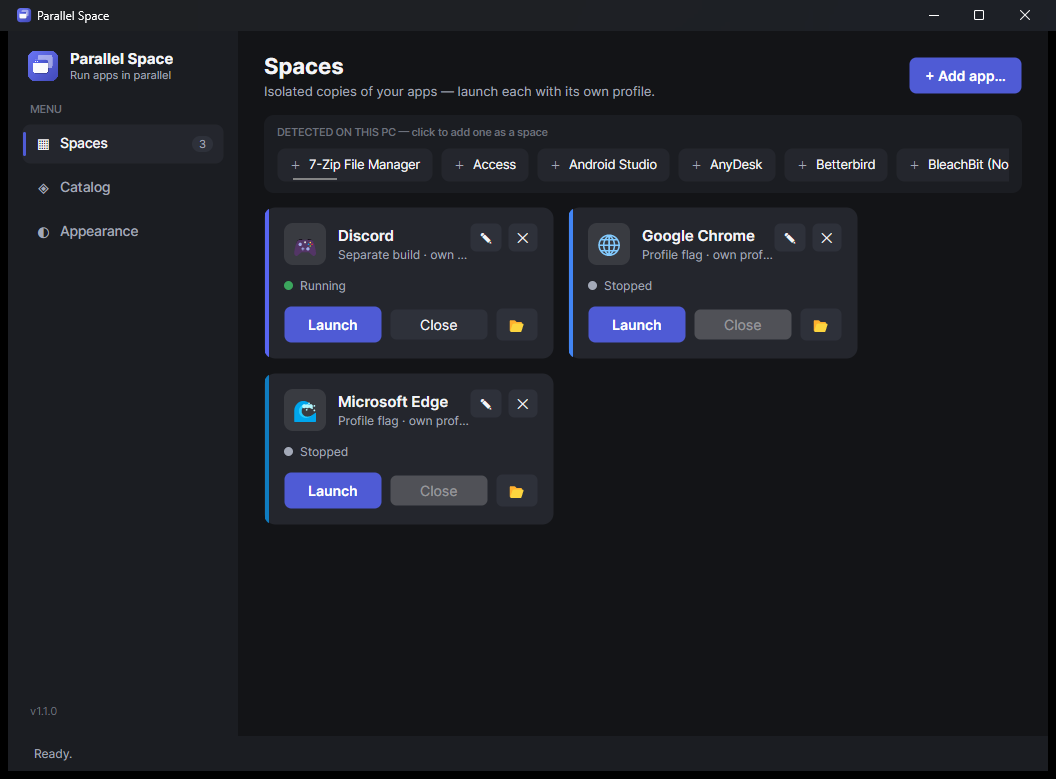
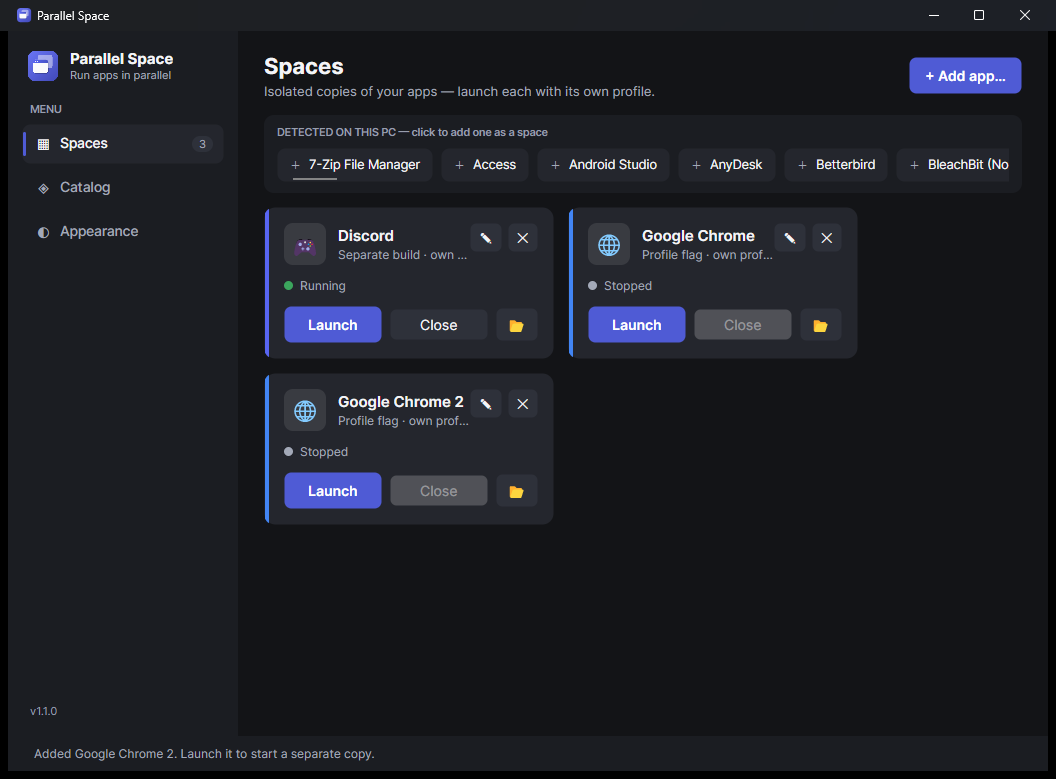
Fix multi-account workflow, Electron recipes and contrast
- A catalog app can be added once per account ('Add another'); repeat adds get
  their own private folder. Launching one space twice reused a single profile,
  so the documented two-account workflow could not work.
- Slack and Obsidian now use --user-data-dir, which Electron honours; the
  environment redirect they used cannot move an Electron userData path.
- Repointing a catalog space at another program drops the preset link instead
  of silently re-resolving the catalog exe.
- Nord secondary text was 3.99:1 on the pill surface; faint labels were below
  4.5:1 in all six themes. Both now pass, verified across every surface.
- Hand-added apps no longer guess --user-data-dir onto a plain exe.
- A failed spaces.json write is no longer masked by a success message.
- Document that closing a Discord space ends every copy of that channel.

diff --git a/src/ParallelSpace/ViewModels/EditSpaceViewModel.cs b/src/ParallelSpace/ViewModels/EditSpaceViewModel.cs
@@ -1,3 +1,4 @@
+using System;
 using System.Collections.Generic;
 using System.IO;
 using CommunityToolkit.Mvvm.ComponentModel;
@@ -11,6 +12,9 @@ public sealed partial class EditSpaceViewModel : ObservableObject
 {
     public Space Model { get; }
     public bool IsExisting { get; }
+
+    /// <summary>The path the editor opened with, to detect a deliberate repoint.</summary>
+    private readonly string _originalExecutablePath;
     public bool IsDiscord { get; }
     public string Title => IsExisting ? "Edit space" : "Add a space";
 
@@ -19,11 +23,12 @@ public sealed partial class EditSpaceViewModel : ObservableObject
         Model = model;
         IsExisting = isExisting;
         IsDiscord = !string.IsNullOrEmpty(model.DiscordChannel);
+        _originalExecutablePath = model.ExecutablePath ?? "";
 
         _name = model.Name;
-        _executablePath = model.ExecutablePath;
-        _arguments = model.Arguments;
-        _workingDirectory = model.WorkingDirectory;
+        _executablePath = model.ExecutablePath ?? "";
+        _arguments = model.Arguments ?? "";
+        _workingDirectory = model.WorkingDirectory ?? "";
         _isolatedProfile = model.Isolation == IsolationMode.IsolatedProfile;
         _appendUserDataDir = model.AppendUserDataDir;
         _glyph = string.IsNullOrEmpty(model.Glyph) ? "📦" : model.Glyph;
@@ -68,7 +73,19 @@ public sealed partial class EditSpaceViewModel : ObservableObject
 
         if (!IsDiscord)
         {
-            Model.ExecutablePath = ExecutablePath.Trim();
+            var exe = ExecutablePath.Trim();
+
+            // Pointing a catalog space at a different program makes it a plain
+            // custom space — otherwise Launch would keep re-resolving the preset
+            // and silently ignore what was typed here.
+            if (!string.IsNullOrEmpty(Model.PresetKey) &&
+                !string.Equals(exe, _originalExecutablePath, StringComparison.OrdinalIgnoreCase))
+            {
+                Model.PresetKey = "";
+                Model.Kind = "custom";
+            }
+
+            Model.ExecutablePath = exe;
             Model.Arguments = Arguments?.Trim() ?? "";
             Model.WorkingDirectory = WorkingDirectory?.Trim() ?? "";
             Model.Isolation = IsolatedProfile ? IsolationMode.IsolatedProfile : IsolationMode.None;

diff --git a/src/ParallelSpace/ViewModels/MainWindowViewModel.cs b/src/ParallelSpace/ViewModels/MainWindowViewModel.cs
@@ -173,9 +173,13 @@ public sealed partial class MainWindowViewModel : ObservableObject
                 return;
             }
 
+            // A preset can be added once per account; number the repeats.
+            var existing = Spaces.Count(sp => sp.Model.PresetKey == preset.Key);
+            var name = existing == 0 ? preset.Display : $"{preset.Display} {existing + 1}";
+
             space = new Space
             {
-                Name = preset.Display,
+                Name = name,
                 Kind = "preset",
                 PresetKey = preset.Key,
                 ExecutablePath = exe,
@@ -232,8 +236,8 @@ public sealed partial class MainWindowViewModel : ObservableObject
 
         MarkSelectedTheme(option.Key);
         _store.ThemeKey = option.Key;
-        Save();
-        StatusMessage = $"Theme set to {option.Name}.";
+        if (Save())
+            StatusMessage = $"Theme set to {option.Name}.";
     }
 
     private void MarkSelectedTheme(string key)
@@ -284,7 +288,7 @@ public sealed partial class MainWindowViewModel : ObservableObject
             ExecutablePath = exePath ?? "",
             Kind = "custom",
             Isolation = IsolationMode.IsolatedProfile,
-            AppendUserDataDir = true,
+            AppendUserDataDir = false,   // opt-in: plain Win32 apps treat it as a file to open
             Glyph = "📦",
             Accent = "#4F5BD5",
         };
@@ -394,10 +398,13 @@ public sealed partial class MainWindowViewModel : ObservableObject
         }
     }
 
-    private void Save()
+    private bool Save()
     {
-        if (!_store.Save(Spaces.Select(s => s.Model)))
-            StatusMessage = "Couldn't write spaces.json — your changes may not persist.";
+        if (_store.Save(Spaces.Select(s => s.Model)))
+            return true;
+
+        StatusMessage = "Couldn't write spaces.json — your changes may not persist.";
+        return false;
     }
 
     private void OpenUrl(string url)

diff --git a/src/ParallelSpace/Services/AppCatalog.cs b/src/ParallelSpace/Services/AppCatalog.cs
@@ -16,7 +16,6 @@ namespace ParallelSpace.Services;
 /// </summary>
 public static class AppCatalog
 {
-    private static string Env(string name) => Environment.GetEnvironmentVariable(name) ?? "";
     private static string Local => Environment.GetFolderPath(Environment.SpecialFolder.LocalApplicationData);
     private static string Roaming => Environment.GetFolderPath(Environment.SpecialFolder.ApplicationData);
     private static string Programs => Environment.GetFolderPath(Environment.SpecialFolder.ProgramFiles);
@@ -98,8 +97,8 @@ public static class AppCatalog
 
         new("slack", "Slack", "Chat",
             [Path.Combine(Local, "slack", "slack.exe")],
-            "", MultiTechnique.IsolatedProfile, "💼", "#4A154B",
-            "Launched with a redirected profile. Slack also supports several workspaces natively.",
+            "--user-data-dir=\"{DATA}\"", MultiTechnique.ProfileFlag, "💼", "#4A154B",
+            "Electron honours --user-data-dir, which also re-keys Slack's single-instance lock.",
             "https://slack.com/downloads/windows")
             { SquirrelLayout = true },
 
@@ -116,8 +115,8 @@ public static class AppCatalog
 
         new("obsidian", "Obsidian", "Tools",
             [Path.Combine(Local, "Obsidian", "Obsidian.exe")],
-            "", MultiTechnique.IsolatedProfile, "🗂", "#7C3AED",
-            "Launched with a redirected profile so each copy keeps its own vault list.",
+            "--user-data-dir=\"{DATA}\"", MultiTechnique.ProfileFlag, "🗂", "#7C3AED",
+            "Electron honours --user-data-dir, so each copy keeps its own vault list and settings.",
             "https://obsidian.md/download"),
 
         new("qbittorrent", "qBittorrent", "Tools",

diff --git a/src/ParallelSpace/ViewModels/CatalogItemViewModel.cs b/src/ParallelSpace/ViewModels/CatalogItemViewModel.cs
@@ -22,6 +22,13 @@ public sealed partial class CatalogItemViewModel : ObservableObject
     /// <summary>Set for the three Discord channels; empty for ordinary presets.</summary>
     public string DiscordChannel { get; init; } = "";
 
+    /// <summary>
+    /// One space per account, so ordinary presets can be added repeatedly — each
+    /// new space gets its own private folder. A Discord channel is a single data
+    /// folder, i.e. exactly one account, so adding it twice would gain nothing.
+    /// </summary>
+    public bool AllowsMultiple => string.IsNullOrEmpty(DiscordChannel);
+
     public Action<CatalogItemViewModel>? OnActivate { get; init; }
 
     [ObservableProperty] private bool _isInstalled;
@@ -43,9 +50,10 @@ public sealed partial class CatalogItemViewModel : ObservableObject
 
     public string ActionLabel =>
         !IsInstalled ? "Get it ↗" :
-        IsAdded ? "Added" : "Add space";
+        !IsAdded ? "Add space" :
+        AllowsMultiple ? "Add another" : "Added";
 
-    public bool CanActivate => !IsAdded;
+    public bool CanActivate => !IsAdded || AllowsMultiple;
 
     [RelayCommand]
     private void Activate() => OnActivate?.Invoke(this);

diff --git a/src/ParallelSpace/Services/ThemeManager.cs b/src/ParallelSpace/Services/ThemeManager.cs
@@ -52,8 +52,7 @@ public static class ThemeManager
         r["SubtleHoverBrush"] = new SolidColorBrush(Mix(cardHover, text, 0.14));
         r["NavHoverBrush"] = new SolidColorBrush(Mix(panel, text, 0.07));
         r["TileBrush"] = new SolidColorBrush(Mix(card, text, 0.10));
-        r["FaintTextBrush"] = new SolidColorBrush(Mix(muted, panel, 0.40));
-        r["BorderBrush"] = new SolidColorBrush(Mix(card, text, 0.20));
+        r["FaintTextBrush"] = new SolidColorBrush(Mix(muted, panel, 0.08));
 
         // Let Fluent's own controls (text boxes, checkboxes, scrollbars) match.
         app.RequestedThemeVariant = theme.IsLight ? ThemeVariant.Light : ThemeVariant.Dark;

diff --git a/src/ParallelSpace/Models/AppTheme.cs b/src/ParallelSpace/Models/AppTheme.cs
@@ -37,7 +37,7 @@ public static class AppThemes
 
         new("nord", "Nord", "Cool desaturated blue-grey with icy highlights", false,
             "#262B33", "#2E3440", "#3B4252", "#454E60",
-            "#4C6E96", "#3E5C80", "#ECEFF4", "#A9B4C6", "#5A9E6F", "#D08F42"),
+            "#4C6E96", "#3E5C80", "#ECEFF4", "#B8C2D2", "#5A9E6F", "#D08F42"),
 
         new("carbon", "Carbon", "Near-black, high contrast, crisp separations", false,
             "#000000", "#0B0B0C", "#16171A", "#24262A",

diff --git a/src/ParallelSpace/Models/Space.cs b/src/ParallelSpace/Models/Space.cs
@@ -29,7 +29,7 @@ public sealed class Space
     /// When Isolation == IsolatedProfile: also append
     /// <c>--user-data-dir="&lt;dataFolder&gt;"</c>. Helpful for Chromium/Electron apps.
     /// </summary>
-    public bool AppendUserDataDir { get; set; } = true;
+    public bool AppendUserDataDir { get; set; } = false;
 
     /// <summary>Free-form tag used for grouping / preset identity (e.g. "discord").</summary>
     public string Kind { get; set; } = "custom";

diff --git a/README.md b/README.md
@@ -30,10 +30,10 @@ copy needs a different trick **per app**, and that is the whole idea here:
 
 | Technique | How it works | Apps |
 |---|---|---|
-| **Profile flag** | The app takes a flag that relocates its entire profile. Most reliable. | Chrome, Edge, Brave, Firefox, Signal, Element, VS Code, qBittorrent, Thunderbird |
+| **Profile flag** | The app takes a flag that relocates its entire profile. Most reliable. | Chrome, Edge, Brave, Firefox, Signal, Element, Slack, VS Code, Obsidian, qBittorrent, Thunderbird |
 | **Multi-instance flag** | A flag permits a second instance, plus one for its data. | Telegram Desktop |
 | **Separate builds** | The vendor ships parallel builds that each keep their own account. | Discord Stable / PTB / Canary |
-| **Isolated profile** | No flag — the copy is launched with its environment redirected into a private folder. | Slack, Obsidian, portable apps, anything you add yourself |
+| **Isolated profile** | No flag — the copy is launched with its environment redirected into a private folder. | Portable apps and anything you add yourself |
 
 Parallel Space keeps a **catalog** of these recipes, detects which of them you have
 installed, and adds them as one-click "spaces". Anything not in the catalog you can
@@ -88,7 +88,13 @@ run — choose **More info → Run anyway**.
 ## Using it
 
 **Catalog → Add space** on anything marked *Installed*, then **Launch** it from
-Spaces. Launch it twice for two copies; sign each into a different account.
+Spaces. For a second account, add the same app again — the button becomes **Add
+another** — which creates a second space with its own private folder. Launch both
+and sign each into a different account.
+
+(Adding it twice is what gives you two profiles. Pressing Launch twice on *one*
+space just reuses that space's folder, so the app's own single-instance handling
+takes over.)
 
 For an app that isn't in the catalog, **+ Add app…** on the Spaces page, or click it
 in the *Detected on this PC* strip. Choose **Isolated profile** unless the app has
@@ -119,6 +125,10 @@ app escapes the job, the space reports "Stopped", and Close does nothing.
 Because each copy has its own job, **Close** terminates that copy's whole process
 tree and nothing outside it. The job carries no kill-on-close limit, so quitting
 Parallel Space leaves your apps running.
+
+**One exception:** Discord channel spaces are tracked and closed by process image
+name, because a channel is a single install that may already be running from
+outside Parallel Space. Closing one ends every running copy of that channel.
 
 ---
 
@@ -159,6 +169,7 @@ src/ParallelSpace/
 tools/
   IconGen/       draws the app icon + logo
   Harness/       headless check of the service layer
+  StubApp/       test fixture: a launcher stub that spawns a child and exits
   build.ps1 / run.ps1 / package.ps1
 ```
 

diff --git a/SECURITY.md b/SECURITY.md
@@ -9,7 +9,9 @@ starts other programs on your behalf:
   `asInvoker`.
 - **It starts programs you configure**, with arguments you can see and edit, and puts
   each launch in a Windows job object so it can report status and close that copy's
-  process tree — and nothing outside it.
+  process tree — and nothing outside it. The one exception is a Discord channel
+  space, which is closed by process image name and therefore ends every running
+  copy of that channel, including one started outside Parallel Space.
 - **It redirects environment variables** (`USERPROFILE`, `APPDATA`, `LOCALAPPDATA`,
   `TEMP`) for spaces set to "isolated profile", so the copy reads and writes inside
   `%APPDATA%\ParallelSpace\Spaces\<id>`.

diff --git a/docs/RELEASE_NOTES_v1.1.0.md b/docs/RELEASE_NOTES_v1.1.0.md
@@ -41,8 +41,8 @@ choose **More info → Run anyway** if SmartScreen prompts.
 ## 🚀 Two of something in 30 seconds
 
 1. **Catalog** → **Add space** on an app marked *Installed*.
-2. **Spaces** → **Launch**. Launch it again for a second copy.
-3. Sign each copy into a different account.
+2. Want a second account? Add the same app again — the button reads **Add another** — for a second space with its own profile.
+3. **Spaces** → **Launch** each one, and sign them into different accounts.
 
 For several Discord accounts, add *Discord*, *Discord PTB* and *Discord Canary* —
 separate installs, separate accounts, no patching.

diff --git a/CHANGELOG.md b/CHANGELOG.md
@@ -4,7 +4,7 @@ All notable changes to this project are documented here.
 Format follows [Keep a Changelog](https://keepachangelog.com/en/1.1.0/);
 this project uses [Semantic Versioning](https://semver.org/).
 
-## [1.1.0] — 2026-08-17
+## [1.1.0] — 2026-08-28
 
 Parallel Space became a general multi-app tool rather than a Discord one.
 
